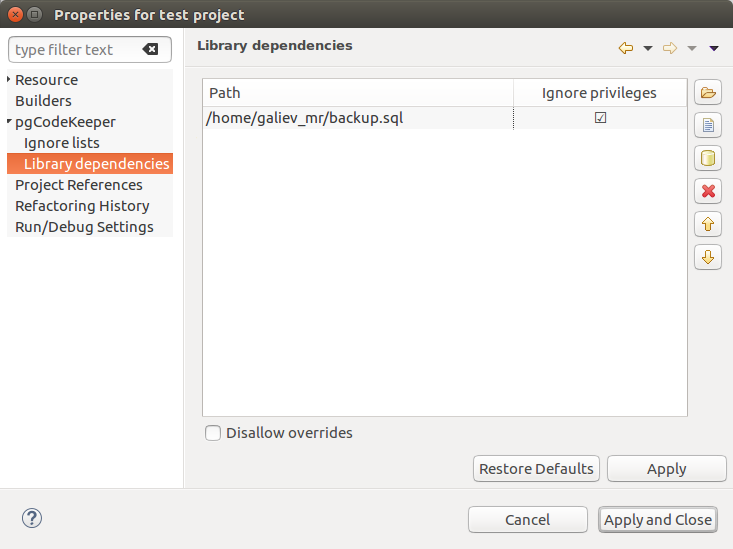
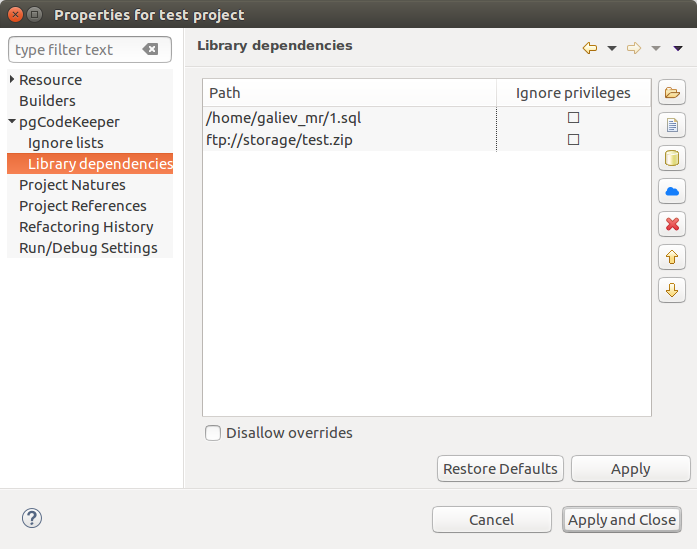
updated lib docs

diff --git a/docs/properties.rst b/docs/properties.rst
@@ -47,7 +47,8 @@
 
 .. image:: ../images/lib_props.png
 
-**Библиотеки** - это подключаемые наборы данных объектов, которые "*склеиваются*" с объектами проекта при сравнении с удаленной базой данных. В качестве библиотек можно использовать директории (это может быть как другой pgCodeKeeper проект, так и обычная директория с файлами), дампы или же удаленная база данных. Для этого воспользуйтесь соответствующими кнопками на боковой панели.
+**Библиотеки** - это подключаемые наборы данных объектов, которые "*склеиваются*" с объектами проекта при сравнении с удаленной базой данных. В качестве библиотек можно использовать директории (это может быть как другой pgCodeKeeper проект, так и обычная директория с файлами), дампы или же удаленная база данных. Кроме того, библиотеки возможно упаковать в zip-архив, загрузить на сервер, и подключить, указав URL архива.
+Для добавления библиотек воспользуйтесь соответствующими кнопками на боковой панели.
 
 Библиотеки загружаются в порядке, в котором они указаны в списке (самая верхняя библиотека будет загружена первой). Для изменения порядка воспользуйтесь соответствующими кнопками на боковой панели.
 
@@ -55,4 +56,4 @@
 
 .. important:: Привилегии объектов библиотек **не зависят** от глобальной настройки **Ignore privileges and owners of database objects / Не учитывать привилегии и владельцев объектов**, т.е. если у библиотеки не игнорируются привилегии, они будут отображены в любом случае.
 
-**Disallow overrides / Запретить переопреление.** Не исключена ситуация, когда проект и библиотека (или две библиотеки) содержат объекты с одинаковыми именами. Существует два варианта обработки таких ситуаций. При включененной настройке, такие конфликты вызывают остановку сравнения объектов. Отключенная настройка позволяет игнорировать конфликты: будет использован первый загруженный объект. Вне зависимости от настройки будет отображен вид :ref:`overrideView`, в котором будут отображены все конфликты.
+**Disallow overrides / Запретить переопределение.** Не исключена ситуация, когда проект и библиотека (или две библиотеки) содержат объекты с одинаковыми именами. Существует два варианта обработки таких ситуаций. При включененной настройке, такие конфликты вызывают остановку сравнения объектов. Отключенная настройка позволяет игнорировать конфликты: будет использован первый загруженный объект. Вне зависимости от настройки будет отображен вид :ref:`overrideView`, в котором будут отображены все конфликты.
